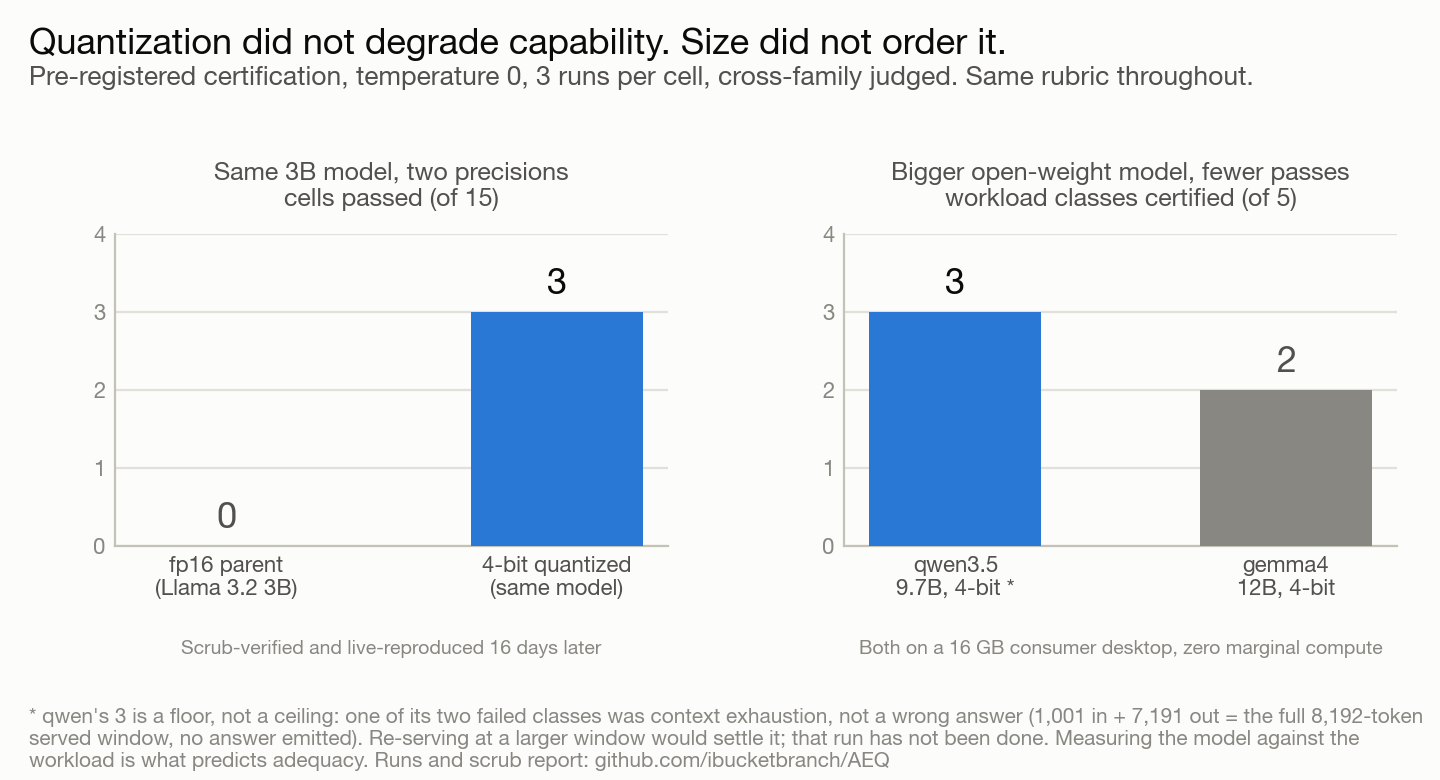
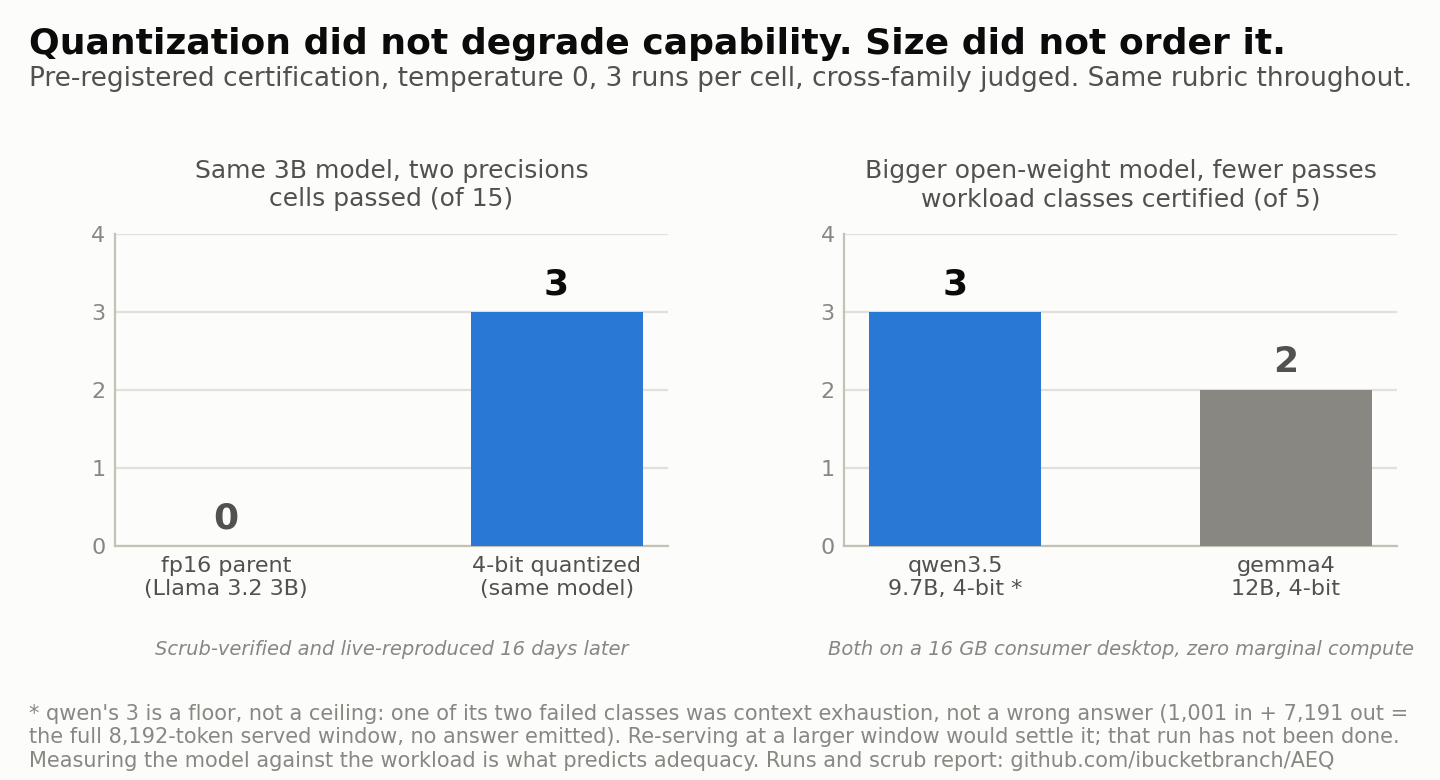
Make figure rendering reproducible: pin the font and the matplotlib version
Rebuilding the figures produced visibly different charts than the committed
ones, about 5 to 8 percent of pixels across every text element. The cause was
not the data and not matplotlib: build_figures.py asked for
[Helvetica Neue, Arial, DejaVu Sans], so the output depended on which system
fonts the rendering machine happened to have. Every published figure was
rendered somewhere that fell back to DejaVu; this machine has Helvetica Neue,
so it rendered something else.

Pinning the family to the DejaVu Sans that matplotlib bundles makes all four
figures rebuild pixel-identical to what is published, verified by image
comparison rather than by file size. matplotlib is now pinned in requirements
too, where it was previously absent entirely, which is why nothing recorded
what the figures depended on.

The quantization chart committed earlier today was built in the wrong font and
is replaced with the correct render.

diff --git a/whitepaper/figures/build_figures.py b/whitepaper/figures/build_figures.py
@@ -28,7 +28,14 @@ STORY = "#2a78d6"          # categorical slot 1, the emphasis hue
 DEEMPH = "#898781"          # gray for context marks; identity carried by labels
 SEQ_RAMP = ["#cde2fb", "#6da7ec", "#256abf", "#104281"]  # blue steps 100/300/500/650
 
-FONT = {"family": ["Helvetica Neue", "Arial", "DejaVu Sans"]}
+# Pinned to the font matplotlib bundles, deliberately. The earlier list started
+# with Helvetica Neue and Arial, so output depended on which system fonts the
+# rendering machine happened to have: a machine with Helvetica Neue produced
+# different text metrics and a visibly different figure from one without, and
+# every published figure here was in fact rendered on a machine that fell back
+# to DejaVu. Pinning makes the render reproducible anywhere and keeps the
+# already-published figures pixel-identical on rebuild. Verified 2026-08-15.
+FONT = {"family": ["DejaVu Sans"]}
 plt.rcParams.update({
     "font.family": FONT["family"],
     "text.color": INK,
